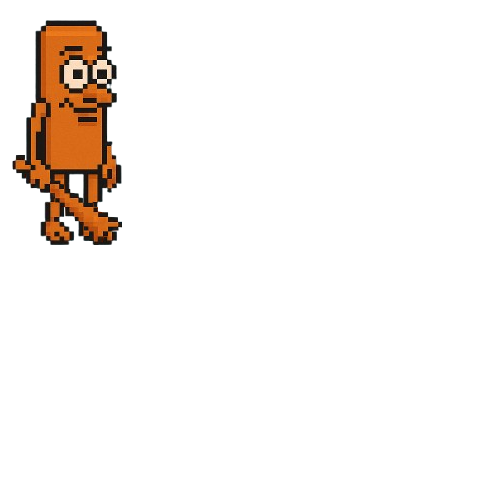
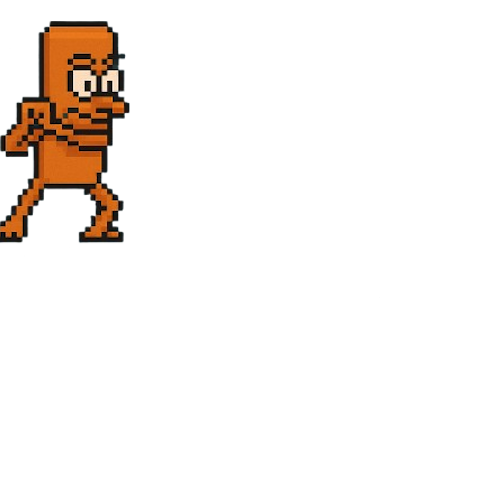
added Sahur's behavior, fixed Bombardini

Changed region(s): [[0.0, 0.03, 0.27, 0.51]]

diff --git a/src/game.c b/src/game.c
@@ -18,8 +18,8 @@ const CharacterInfo CHARACTER_INFO[] = {
     [CHAR_TYPE_NONE] = {CHAR_TYPE_NONE, 0, 0, 0, ""},
     [CHAR_TYPE_CHIMPANZINI] = {CHAR_TYPE_CHIMPANZINI, CHIMPANZINI_COST, CHIMPANZINI_CD, 20, "chimpanzini", {32, 72, 323, 543}, {323 / 5.0f, 543 / 5.0f}, {20, -10}},
     [CHAR_TYPE_TRALALERO] = {CHAR_TYPE_TRALALERO, TRALALERO_COST, TRALALERO_CD, 50, "tralalero", {13, 57, 186, 144}, {186 / 2.0f, 144 / 2.0f}, {0, 0}},
-    [CHAR_TYPE_SAHUR] = {CHAR_TYPE_SAHUR, SAHUR_COST, SAHUR_CD, 50, "sahur", {8, 20, 122, 244}, {122 / 2.5f, 244 / 2.5f}, {20, -10}},
-    [CHAR_TYPE_LIRILI] = {CHAR_TYPE_LIRILI, LIRILI_COST, LIRILI_CD, 150, "lirili", {35, 19, 190, 225}, {190 / 2.5f, 225 / 2.5f}, {20, -10}},
+    [CHAR_TYPE_SAHUR] = {CHAR_TYPE_SAHUR, SAHUR_COST, SAHUR_CD, 50, "sahur", {0, 0, 180, 264}, {180 / 2.5f, 244 / 2.5f}, {20, -10}},
+    [CHAR_TYPE_LIRILI] = {CHAR_TYPE_LIRILI, LIRILI_COST, LIRILI_CD, 300, "lirili", {35, 19, 190, 225}, {190 / 2.5f, 225 / 2.5f}, {20, -10}},
     [CHAR_TYPE_BOMBARDINI] = {CHAR_TYPE_BOMBARDINI, BOMBARDINI_COST, BOMBARDINI_CD, 10, "bombardini", {200, 205, 620, 610}, {620 / 10.0f, 610 / 10.0f}, {18, 9}},
 };
 
@@ -153,17 +153,66 @@ void UpdateCharacters(GameState *state, float deltaTime) {
                     }
                     break;
 
-                // Lógica de comportamento do Sahur (idle simples).
-                case CHAR_TYPE_SAHUR:
-                    if (character->currentFrame > 2) {
+                // Lógica de comportamento do Sahur 
+                case CHAR_TYPE_SAHUR: 
+                    if (character->currentFrame > 1 && character->currentFrame < 3) { // idle simples
                         character->currentFrame = 0;
                     }
+                    if (character->specific.sahur.cooldown) {  // Inicia animação de cooldown
+                        if (character->currentFrame > 7) {
+                            character->currentFrame = 5;
+                            character->specific.sahur.loop++;
+                        }
+                    }
+
+                           for (int j = 0; j < MAX_ZOMBIES_ON_SCREEN; j++) {
+                            Zombie *zombie = &state->entities.zombies[j];
+
+                            if (!character->specific.sahur.cooldown && zombie->isActive) {
+                                const CharacterInfo *charInfo = &CHARACTER_INFO[character->type];
+
+                                float posX = GRID_MARGIN_X + (c * 96) + charInfo->destOffset.x;
+                                float posY = GRID_MARGIN_Y + (r * 78) + 20 + charInfo->destOffset.y;
+                                int zombieGridCol = (int)((zombie->position.x - GRID_MARGIN_X - 20) / 96);
+                                Rectangle recZombie = {zombie->position.x, zombie->position.y, 40, 80};
+                                Rectangle recSahur = ScaleRectTo720p(posX, posY, charInfo->destSize.x + 20, charInfo->destSize.y - 40, BASE_WIDTH_INT, BASE_HEIGHT_INT);
+
+                                if (CheckCollisionRecs(recSahur, recZombie)) {  // Se chegar perto de Sahur, Sahur causa dano a ele
+                                   
+                                        if (character->currentFrame == 1 || character->currentFrame == 0) {
+                                            character->currentFrame = 2;
+                                        }
+
+                                            if (character->currentFrame == 4){
+                                            
+                                            zombie->hp -= ZOMBIE_HP;
+                                            state->soundToPlay = SOUND_TUNG;
+                                            state->shouldPlaySound = true;
+                                            character->specific.sahur.cooldown = true;
+                                            if (zombie->hp <= 0) {
+                                                zombie->isActive = false;
+                                                state->stats.enemiesKilled++;
+                                                state->stats.currentPoints += 100;
+                                            }
+                                        
+                                        }
+                                    }
+                                }
+                            }
+                       
+
+                        if (character->specific.sahur.loop == SAHUR_LOOPS) {  // Volta ao estado inicial
+                            character->specific.sahur.cooldown = false;
+                            character->currentFrame = 1;
+                            character->specific.sahur.loop = 0;
+                        }
+                    
                     break;
                 // Lógica de comportamento do Lirili (mudança de sprite conforme HP).
                 case CHAR_TYPE_LIRILI:
-                    if (character->hp < 100 && character->hp >= 75) {
+                    if (character->hp < 250 && character->hp >= 150) {
                         character->currentFrame = 1;
-                    } else if (character->hp < 75 && character->hp >= 50) {
+                    } else if (character->hp < 150 && character->hp >= 50) {
                         character->currentFrame = 2;
                     } else if (character->hp < 50) {
                         character->currentFrame = 3;
@@ -178,42 +227,42 @@ void UpdateCharacters(GameState *state, float deltaTime) {
                             character->currentFrame = 0;
                             character->specific.bombardini.loop++;
                         }
-                        if (character->specific.bombardini.loop >= BOMBARDINI_LOOPS) {  // Após 300 loops, fica "pronto".
+                        if (character->specific.bombardini.loop >= BOMBARDINI_LOOPS && !character->specific.bombardini.ready) {  // Após 300 loops, fica "pronto".
                             character->specific.bombardini.ready = true;
                             character->currentFrame = 4;  // Inicia animação de pronto.
                         }
                     }
                     for (int j = 0; j < MAX_ZOMBIES_ON_SCREEN; j++) {
-                    Zombie *zombie = &state->entities.zombies[j];
+                        Zombie *zombie = &state->entities.zombies[j];
 
-                    if (character->specific.bombardini.ready && zombie->isActive) {
-                        const CharacterInfo *charInfo = &CHARACTER_INFO[character->type];
+                        if (character->specific.bombardini.ready && zombie->isActive) {
+                            const CharacterInfo *charInfo = &CHARACTER_INFO[character->type];
 
-                           // Posição final do personagem com offsets do grid.
-                        float posX = GRID_MARGIN_X + (c * 96) + charInfo->destOffset.x;
-                        float posY = GRID_MARGIN_Y + (r * 78) + charInfo->destOffset.y;
+                            float posX = GRID_MARGIN_X + (c * 96) + charInfo->destOffset.x;
+                            float posY = GRID_MARGIN_Y + (r * 78) + charInfo->destOffset.y;
                             int zombieGridCol = (int)((zombie->position.x - GRID_MARGIN_X - 20) / 96);
-                        Rectangle recZombie = {zombie->position.x, zombie->position.y, 40, 80};
-                            Rectangle recBombardini = ScaleRectTo720p(posX, posY, charInfo->destSize.x/2.3, charInfo->destSize.y, BASE_WIDTH_INT, BASE_HEIGHT_INT);
+                            Rectangle recZombie = {zombie->position.x, zombie->position.y, 40, 80};
+                            Rectangle recBombardini = ScaleRectTo720p(posX, posY +10, charInfo->destSize.x / 2.3, charInfo->destSize.y - 20, BASE_WIDTH_INT, BASE_HEIGHT_INT);
 
-                            if (CheckCollisionRecs(recBombardini, recZombie)) {
+                            if (CheckCollisionRecs(recBombardini, recZombie)) {  // Se zumbi pisar no alvo, uma bomba cai do ceu
                                 for (int i = 0; i < MAX_PROJECTILES_ON_SCREEN; i++) {
                                     if (!state->entities.bombs[i].isActive) {
-
-                                      state->entities.bombs[i].isActive = true;
+                                        state->entities.bombs[i].isActive = true;
 
                                         // Define a posição inicial da bomba, caindo do céu.
-                                        state->entities.bombs[i].position.x = GRID_MARGIN_X + (c * 96) + charInfo->destOffset.x;
+                                        state->entities.bombs[i].position.x = posX;
                                         state->entities.bombs[i].position.y = 0;
-                                        state->entities.bombs[i].explosionY = GRID_MARGIN_Y + (r * 78) + charInfo->destOffset.y + 50;
+                                        state->entities.bombs[i].explosionY = posY + 50;
+                                       
                                         character->exists = false;
                                         state->tiles[r][c] = TILE_TYPE_GRASS;  // Tile volta ao estado padrão.
-                                        break;
+                                      
                                     }
                                 }
                             }
                         }
                     }
+            
             
 
 
@@ -283,26 +332,31 @@ void UpdateBombs(GameState *state, float deltaTime) {
 
          
 
-            Rectangle recBomb = {bomb->position.x, bomb->position.y, 20, 20};
+            Rectangle recBomb = {bomb->position.x, bomb->position.y, 40, 80};
 
             for (int j = 0; j < MAX_ZOMBIES_ON_SCREEN; j++) {
                 Zombie *zombie = &state->entities.zombies[j];
                 if (zombie->isActive) {
-                    Rectangle recExplosion = {state->entities.bombs[i].position.x, state->entities.bombs[i].explosionY, 40, 80};
+                    Rectangle recExplosion = {state->entities.bombs[i].position.x, state->entities.bombs[i].explosionY, 40, 80-40};
+                    Rectangle recZombie = {zombie->position.x, zombie->position.y, 40, 80};
 
                     if (CheckCollisionRecs(recBomb, recExplosion)) {
-                        bomb->isActive = false;
-                        zombie->hp -= ZOMBIE_HP;
-                        state->soundToPlay = SOUND_EXPLOSION;
-                        state->shouldPlaySound = true;
+                       
+                        
+                            bomb->isActive = false;
+                            if (CheckCollisionRecs(recExplosion, recZombie)) {
+                                zombie->hp -= ZOMBIE_HP;
+                                state->soundToPlay = SOUND_EXPLOSION;
+                                state->shouldPlaySound = true;
 
-                        if (zombie->hp <= 0) {
-                            zombie->isActive = false;
-                            state->stats.enemiesKilled++;
-                            state->stats.currentPoints += 100;
+                                if (zombie->hp <= 0) {
+                                    zombie->isActive = false;
+                                    state->stats.enemiesKilled++;
+                                    state->stats.currentPoints += 100;
+                                }
+                            
+                      
                         }
-
-                        break;
                     }
                 }
             }
@@ -646,16 +700,18 @@ void UpdateZombies(GameState *state, float deltaTime) {
 
         // Pega o character que está na mesma linha e coluna calculada.
         Character *character = &state->entities.characters[zombie->row][zombieGridCol];
-        bool isCollidingWithCharacter = (character->exists && !character->specific.bombardini.ready && zombie->position.x < (GRID_MARGIN_X + (zombieGridCol * 96) + 70));
+        bool isCollidingWithCharacter = (character->exists &&  zombie->position.x < (GRID_MARGIN_X + (zombieGridCol * 96) + 70));
 
         // Se há uma character na frente do zumbi, ele para para comer.
         if (zombie->state == ZOMBIE_WALKING && isCollidingWithCharacter) {
-            zombie->state = ZOMBIE_EATING;
-            zombie->damageTimer = 0;  // Reinicia ambos os timers
+            if (!(character->type == CHAR_TYPE_BOMBARDINI && character->specific.bombardini.ready)) {
+                zombie->state = ZOMBIE_EATING;
+                zombie->damageTimer = 0;  // Reinicia ambos os timers
+            }
         } else if (zombie->state == ZOMBIE_EATING && !character->exists) {
-            zombie->state = ZOMBIE_WALKING;
-        }
-
+                zombie->state = ZOMBIE_WALKING;
+            }
+        
         switch (zombie->state) {
             case ZOMBIE_WALKING:
                 zombie->animationCounter += deltaTime;

diff --git a/src/graphics.c b/src/graphics.c
@@ -70,6 +70,7 @@ void InitializeSounds(GameSounds *sounds) {
     sounds->putSFX = LoadSound("assets/sfx/put.wav");
     sounds->projectileSFX = LoadSound("assets/sfx/projectile.wav");
     sounds->explosionSFX = LoadSound("assets/sfx/explosion.wav");
+    sounds->tungSFX = LoadSound("assets/sfx/tung.wav");
     sounds->hitSFX = LoadSound("assets/sfx/hit.wav");
     sounds->eatSFX = LoadSound("assets/sfx/eating.wav");
     sounds->endGameSFX = LoadSound("assets/sfx/end.wav");
@@ -98,6 +99,9 @@ void PlaySounds(GameState *state, GameSounds *sounds) {
             break;
         case SOUND_EXPLOSION:
             PlaySound(sounds->explosionSFX);
+            break;
+        case SOUND_TUNG:
+            PlaySound(sounds->tungSFX);
             break;
         case SOUND_SELECT:
             PlaySound(sounds->selectSFX);
@@ -134,13 +138,22 @@ void PlaySounds(GameState *state, GameSounds *sounds) {
 void RenderTitleScreen(int screenWidth, int screenHeight, int fontSize) {
     DrawText(GAME_TITLE, screenWidth / 3, screenHeight / 3, fontSize, BLACK);
     DrawText("Play Game", screenWidth / 2.5, screenHeight / 2, fontSize, BLACK);
+    DrawText("Leaderboard", screenWidth / 2.65, screenHeight / 1.5, fontSize, BLACK);
 
-    // Posição e tamanho do botão "Play Game" para detecção de colisão.
+    // Posição e tamanho dos botões "Play Game" e "Leaderboard" para detecção de colisão.
     Rectangle playDest = ScaleRectTo720p((int)1280 / 2.5 - 5, (int)720 / 2, 210, fontSize, screenWidth, screenHeight);
+    Rectangle leaderboardbuttonDest = ScaleRectTo720p((int)1280 / 2.65 - 5, (int)720 / 1.5, 270, fontSize, screenWidth, screenHeight);
 
-    // Highlight visual do botão "Play Game" ao passar o mouse.
+    // Highlight visual dos botões "Play Game" e "Leaderboard" ao passar o mouse.
     if (CheckCollisionPointRec(GetMousePosition(), playDest)) {
         DrawRectangleRec(playDest, ColorAlpha(YELLOW, 0.3f));
+        SetMouseCursor(MOUSE_CURSOR_POINTING_HAND);
+    } else {
+        SetMouseCursor(MOUSE_CURSOR_DEFAULT);
+    }
+
+      if (CheckCollisionPointRec(GetMousePosition(), leaderboardbuttonDest)) {
+        DrawRectangleRec(leaderboardbuttonDest, ColorAlpha(YELLOW, 0.3f));
         SetMouseCursor(MOUSE_CURSOR_POINTING_HAND);
     } else {
         SetMouseCursor(MOUSE_CURSOR_DEFAULT);

diff --git a/include/config.h b/include/config.h
@@ -4,7 +4,7 @@
 #define GAME_TITLE "INF vs Zombies"
 
 #define MAX_HORDES 10
-#define TIME_BETWEEN_HORDES 15.0f
+#define TIME_BETWEEN_HORDES 1.0f
 
 #define TILE_TYPE_BUTTON 0
 #define TILE_TYPE_GRASS 1
@@ -55,6 +55,7 @@ extern const int FONT_SIZE;
 #define SAHUR_FRAME_ID 2
 #define SAHUR_COST 150
 #define SAHUR_CD 7.5f
+#define SAHUR_LOOPS 30
 
 #define LIRILI_ID 19
 #define LIRILI_FRAME_ID 3
@@ -65,13 +66,13 @@ extern const int FONT_SIZE;
 #define BOMBARDINI_FRAME_ID 4
 #define BOMBARDINI_COST 25
 #define BOMBARDINI_CD 30
-#define BOMBARDINI_LOOPS 300
+#define BOMBARDINI_LOOPS 3
 
 // Configurações de jogo.
 #define TARGET_FPS 60
 #define BASE_FONT_SIZE 40
 #define MONEY_BAG_RANDOMNESS 800
-#define MONEY_BAG_AMOUNT 40
+#define MONEY_BAG_AMOUNT 25
 #define MAX_PROJECTILES_ON_SCREEN 100
 
 // Velocidades.
@@ -83,6 +84,7 @@ extern const int FONT_SIZE;
 // Valores dos sons
 #define SOUND_PROJECTILE 1
 #define SOUND_EXPLOSION 17
+#define SOUND_TUNG 18
 #define SOUND_SELECT 2
 #define SOUND_COLLECT 3
 #define SOUND_COLLECTBAG 4

diff --git a/include/types.h b/include/types.h
@@ -41,6 +41,10 @@ typedef struct {
             bool ready;
             int loop;
         } bombardini;
+        struct {
+            bool cooldown;
+            int loop;
+        } sahur;
         // CASO HAJA MAIS PERSONAGENS COM CAMPOS ESPECÍFICOS, ADICIONAR AQUI.
     } specific;
 } Character;
@@ -170,6 +174,7 @@ typedef struct {
     Sound collectSFX;
     Sound projectileSFX;
     Sound explosionSFX;
+    Sound tungSFX;
     Sound putSFX;
     Sound cancelSFX;
     Sound collectBagSFX;
